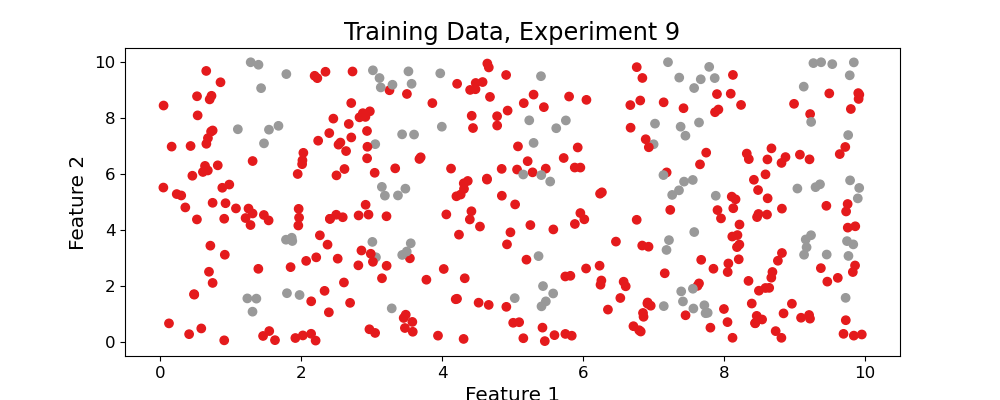
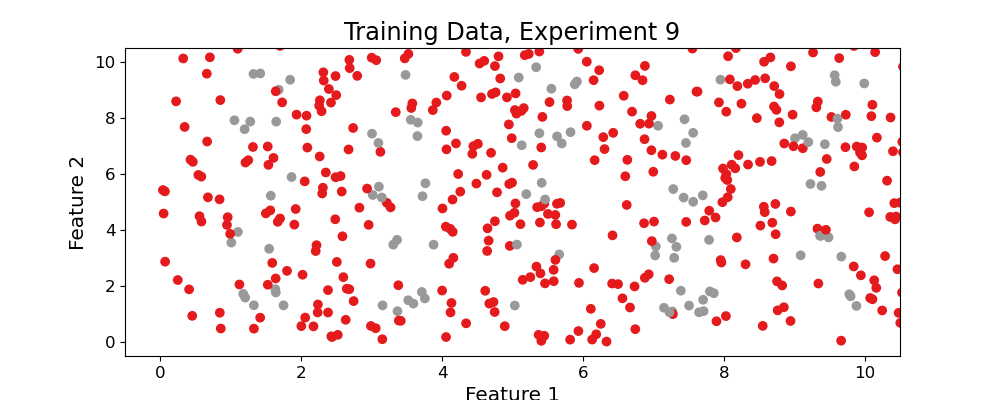
updating experiment 9 data

Changed region(s): [[0.155, 0.12, 0.899, 0.87], [0.155, 0.63, 0.186, 0.66]]

diff --git a/experiments/set_9_checkerboard.py b/experiments/set_9_checkerboard.py
@@ -16,10 +16,10 @@ import tensorflow as tf
 import matplotlib.pyplot as plt
 
 if __name__ == '__main__':
-    # Generate the ata, domain for x0 and x1 is [0, 10]
+    # Generate the ata, domain for x0 and x1 is [0, 100]
     np.random.seed(4736)
-    two_var_x = np.random.random((1000, 2))
-    two_var_x = two_var_x * 10
+    two_var_x = np.random.random((100000, 2))
+    two_var_x = two_var_x * 100
     target = (np.floor(two_var_x[:, 0]) % 2) * (np.floor(two_var_x[:, 1]) % 2)
 
     # Create train, val, test sets
